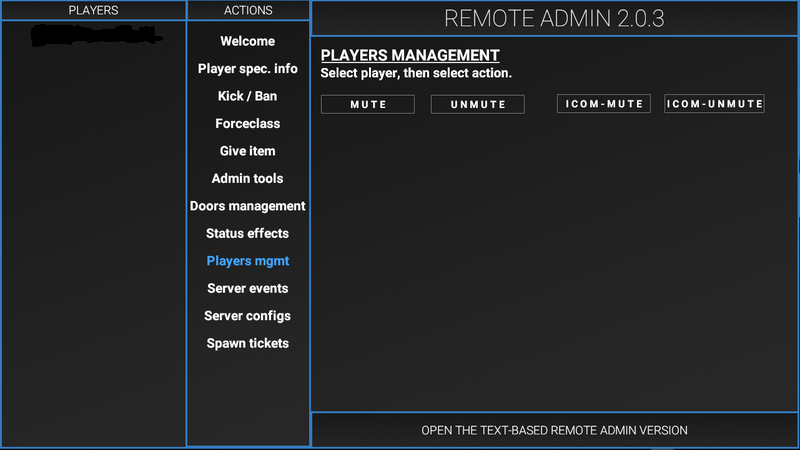
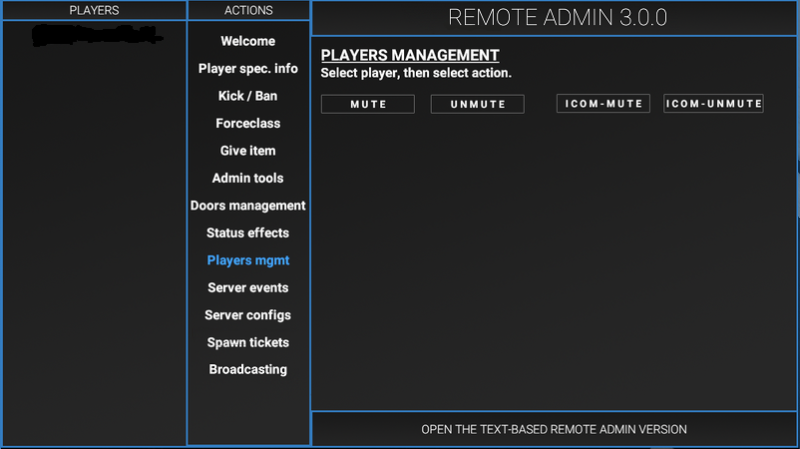
Add files via upload

diff --git a/scpsl.github.io/index.html b/scpsl.github.io/index.html
@@ -141,6 +141,19 @@
       <h2>Spawn Tickets</h2>
       <p>Позволяет пользователю увидеть текущее кол-во Жетонов Возрождения Мобильной Опергруппы и Повстанцев Хаоса. Кнопка "Refresh", находящаяся в правом верхнем углу, нужна для того, чтобы обновить кол-во Жетонов. <br>В меню будет отображаться 0 Жетонов для обеих команд, пока не будет нажата кнопка "Refresh". <br> Кнопки "+" и "-" могут использоваться для уменьшения и увеличения количества Жетонов.</p>
       <img src="assets/images/800px-Remote_Admin_Spawn_Tickets.png">
+      <h2>Broadcasting</h2>
+      <p>Позволяет отправлять текст на вверху экрана игроку/всем или же убрать объявление. Так же можно выбрать цвет, цветов 6.</p>
+      <ul>
+      <li><span class="kbd">Send To Player</span>
+      <ul><li>Отправляет текст игроку в вверху экрана.</li></ul></li><br>
+      <li><span class="kbd">Send To ALL</span>
+      <ul><li>Отправляет текст всем игрокам в вверху экрана.</li></ul></li><br>
+      <li><span class="kbd">Clear Input</span>
+      <ul><li>Обнуляет форму</li></ul></li><br>
+      <li><span class="kbd">Clear Broadcasts</span>
+      <ul><li>Отменяет и удаляет все объявления</li></ul></li></ul><br>
+      </ul>
+      <img src="assets/images/800px-Remote_Admin-Broadcasting.png">
       <h2>Текстовая Админ-Панель</h2>
       <p><b>Текстовую Админ-Панель</b> можно открыть нажатием на нижнюю часть Панели Remote Admin.<br> Команды в Текстовой Панели Администратора требует наличие определённых Прав у роли пользователя для того, чтобы выполнять их. Некоторые права могут дать только ограниченный доступ к командам.</p>
       <table class="wikitable">
@@ -928,7 +941,7 @@
       </div>
       <div id="content-1">
         <h1>Команда - Help</h1>
-        <h4>Возвращает все команды с их описаниями и псевдонимами или отборажает справку для sp...</h4>
+        <h3>Возвращает все команды с их описаниями и псевдонимами или отборажает справку для sp...</h3>
         <h2>Галерея -</h2>
         	<div class="gallery">
           <section class="gallery">
@@ -942,13 +955,13 @@
       </div>
       <div id="content-2">
         <h1>Команда - htag/stag</h1>
-        <h4>Скрыть/Показать ваш собственный префикс</h4>
+        <h3>Скрыть/Показать ваш собственный префикс</h3>
         <h2>Галерея -</h2>
         <iframe style="border-radius: 10px;" width="793" height="445" src="https://www.youtube.com/embed/39FSWBjKU0o" title="YouTube video player" frameborder="0" allow="accelerometer; autoplay; clipboard-write; encrypted-media; gyroscope; picture-in-picture" allowfullscreen alt="alt"></iframe>
       </div>
       <div id="content-3">
         <h1>Команда - bc/alert [Время (в сек)]</h1>
-        <h4>Отправляет всем текст наверху экрана.</h4>
+        <h3>Отправляет всем текст наверху экрана.</h3>
         <h2>Галерея -</h2>
           <div class="gallery-1">
           <section class="gallery">
@@ -965,7 +978,7 @@
       </div>
       <div id="content-4">
         <h1>Команда - @ [Текст]</h1>
-        <h4>Отправляет текст в админ чат наверху экрана</h4>
+        <h3>Отправляет текст в админ чат наверху экрана</h3>
         <h2>Галерея -</h2>
           <div class="gallery-1">
           <section class="gallery">
@@ -981,19 +994,53 @@
       <div id="content-5">
         <h1>Команда - ban [Стим айди 64/Имя игрока/IP игрока] [Время(h,d,y)] Причина Бана</h1>
         <h5 style="">Писать без скобочек!</h5>
-        <h4>Банит игрока на время на сервере</h4>
+        <h3>Банит игрока на время на сервере</h3>
       </div>
       <div id="content-6">
         <h1>Команда - oban [Стим айди 64/IP игрока] [Время(h,d,y)] Причина Бана</h1>
         <h5>Писать без скобочек!</h5>
-        <h4>Банит игрока на время на сервере</h4>
+        <h3>Банит игрока во оффлайне</h3>
       </div>
       <div id="content-7">
         <h1>Команда - speak/icom</h1>
-        <h4>С помощью этой команды можно говорить в интеркоме на расстоянии. Чтобы вкл/выкл надо прописать команду заново.</h4>
+        <h3>С помощью этой команды можно говорить в интеркоме на расстоянии. Чтобы вкл/выкл надо прописать команду заново.</h3>
         <iframe style="border-radius: 10px;" width="793" height="445" src="https://www.youtube.com/embed/aYCXLoiKKgs" title="YouTube video player" frameborder="0" allow="accelerometer; autoplay; clipboard-write; encrypted-media; gyroscope; picture-in-picture" allowfullscreen></iframe>
       </div>
-      <div class="menu-body">
+      <div id="content-8">
+        <h1>cassie (текст)</h1>
+        <h3>C.A.S.S.I.E. используемая этой командой, отделена от C.A.S.S.I.E. которая делает обычные объявления в игре(например прибытие подкрепления МОГ), эта команда будет воспроизводить всё доступное, включая другие слова "cassie".</h3>
+        <a style="text-decoration: none;" target="_blank" href="https://steamcommunity.com/sharedfiles/filedetails/?id=2220087668"><div class="dynamiclink_box noPopup webguide_item ugc">
+  <img class="dynamiclink_preview" src="https://steamuserimages-a.akamaihd.net/ugc/1622940601161532467/FBBC3D472320B360158B4ACDBDD6CEB496FEF62C/?imw=88&amp;imh=88&amp;ima=fit&amp;impolicy=Letterbox&amp;imcolor=%23000000&amp;letterbox=true">
+  <div class="dynamiclink_content">
+    <div class="dynamiclink_name">C.A.S.S.I.E. - Все команды&nbsp;</div>
+    <div><span class="dynamiclink_type">Руководство по SCP: Secret Laboratory</span></div></a>
+    <a style="text-decoration: none;" target="_blank" href="http://steamcommunity.com/profiles/76561198013366120"><div class="dynamiclink_author">Автор: <span class="dynamiclink_authorname">SCP-056</span></div></a>
+    <a style="text-decoration: none;" target="_blank" href="https://steamcommunity.com/sharedfiles/filedetails/?id=2220087668"><div class="dynamiclink_description">
+      [Обновлено для Parabellum] Руководство, описывающее команду "cassie", доступную через Text-based remote Admin version Ссылка на оригинал: https://steamcommunity.com/sharedfiles/filedetails/?id=1577299753   </div></a>
+  </div>
+</div>
+      </div>
+      <div id="content-9">
+        <h1>cassie_sl (текст)</h1>
+        <h3>C.A.S.S.I.E. используемая этой командой, отделена от C.A.S.S.I.E. которая делает обычные объявления в игре(например прибытие подкрепления МОГ), эта команда будет воспроизводить всё доступное, включая другие слова "cassie_sl".<br>
+        Команда cassie_sl отличается от cassie тем, что cassie_sl начинает сразу говорить фразу, без начального оповещения.</h3>
+        <a style="text-decoration: none;" target="_blank" href="https://steamcommunity.com/sharedfiles/filedetails/?id=2220087668"><div class="dynamiclink_box noPopup webguide_item ugc">
+  <img class="dynamiclink_preview" src="https://steamuserimages-a.akamaihd.net/ugc/1622940601161532467/FBBC3D472320B360158B4ACDBDD6CEB496FEF62C/?imw=88&amp;imh=88&amp;ima=fit&amp;impolicy=Letterbox&amp;imcolor=%23000000&amp;letterbox=true">
+  <div class="dynamiclink_content">
+    <div class="dynamiclink_name">C.A.S.S.I.E. - Все команды&nbsp;</div>
+    <div><span class="dynamiclink_type">Руководство по SCP: Secret Laboratory</span></div></a>
+    <a style="text-decoration: none;" target="_blank" href="http://steamcommunity.com/profiles/76561198013366120"><div class="dynamiclink_author">Автор: <span class="dynamiclink_authorname">SCP-056</span></div></a>
+    <a style="text-decoration: none;" target="_blank" href="https://steamcommunity.com/sharedfiles/filedetails/?id=2220087668"><div class="dynamiclink_description">
+      [Обновлено для Parabellum] Руководство, описывающее команду "cassie", доступную через Text-based remote Admin version Ссылка на оригинал: https://steamcommunity.com/sharedfiles/filedetails/?id=1577299753   </div></a>
+  </div>
+</div>
+      </div>
+        <div id="content-10">
+          <h1>kill [Айди/Имя игрока]</h1>
+          <h5>Писать без скобочек!</h5>
+        </div>
+        <div class="menu-body">
+        <h2 style="padding-bottom: 25px;">Административные</h2>
         <a href="#content-0"><h3>Панель <br> Администратора</h3></a>
         <a href="#content-1"><h3>Help</h3></a>
         <a href="#content-2"><h3>htag/stag</h3></a>
@@ -1001,12 +1048,14 @@
         <a href="#content-4"><h3>@</h3></a>
         <a href="#content-5"><h3>ban</h3></a>
         <a href="#content-6"><h3>oban</h3></a>
+        <a href="#content-10"><h3>kick</h3></a>
+        <h2></h2>
+        <h2 style="padding-bottom: 38px;">Ивентовые/Весёлые</h2>
         <a href="#content-7"><h3>speak/icom</h3></a>
-        <a href="#content-8"><h3>bc/alert</h3></a>
+        <a href="#content-8"><h3>cassie</h3></a>
+        <a href="#content-9"><h3>cassie_sl</h3></a>
+        <h2></h2>
       </div>
-    </div>
-
-  </div>
   <script src="https://code.jquery.com/jquery-3.5.1.js" integrity="sha256-QWo7LDvxbWT2tbbQ97B53yJnYU3WhH/C8ycbRAkjPDc="
     crossorigin="anonymous"></script>
   <script src="https://cdnjs.cloudflare.com/ajax/libs/magnific-popup.js/1.1.0/jquery.magnific-popup.js"></script>

diff --git a/scpsl.github.io/assets/css/style.css b/scpsl.github.io/assets/css/style.css
@@ -81,8 +81,6 @@ tr {
   max-width: 2900px;
   padding-left: 15px;
   padding-right: 15px;
-  border: 5px solid black;
-  border-radius: 16px;
 }
 
 .menu-content {
@@ -137,7 +135,6 @@ tr {
 .menu-content>#content-17:target~.menu-body>a[href="#content-17"] {
   background-color: #bbdefb;
   cursor: default;
-
 }
 .menu-content a{
   transition: 0.1s linear 0.1s;
@@ -151,7 +148,39 @@ tr {
   order: 1;
   flex-grow: 1;
 }
-
+.administration {
+  display: flex;
+  order: 0;
+  white-space: nowrap;
+  margin-bottom: 15px;
+  background-color: #fff;
+  border: 1px solid #e3f2fd;
+  box-shadow: 0 2px 4px 0 #e3f2fd;
+  flex-direction: column;
+}
+.administration>a {
+  display: inline-block;
+  text-decoration: none;
+  margin-bottom: 8px;
+  color: #1976d2;
+  padding: 6px 10px;
+  text-align: center;
+  color: black;
+}
+.administration>a:hover {
+  background-color: rgba(227, 242, 253, 0.3);
+}
+.menu-content>.administration>#content-0:target~.administration>a[href="#content-0"],
+.menu-content>.administration>#content-1:target~.administration>a[href="#content-1"],
+.menu-content>#content-2:target~.administration>a[href="#content-2"],
+.menu-content>#content-3:target~.administration>a[href="#content-3"],
+.menu-content>#content-4:target~.administration>a[href="#content-4"],
+.menu-content>#content-5:target~.administration>a[href="#content-5"],
+.menu-content>#content-6:target~.administration>a[href="#content-6"],
+.menu-content>#content-7:target~.administration>a[href="#content-7"] {
+  background: #bbdefb;
+  cursor: default;
+}
 @media (min-width: 576px) {
   .menu-content {
 	flex-direction: row;
@@ -203,4 +232,59 @@ tr {
 }
 .amongus a{
   text-decoration: none;
+}
+.dynamiclink_box {
+    position: relative;
+    font-family: Helvetica, Arial, sans-serif;
+    width: auto;
+    max-width: 712px;
+    background: rgba(87, 92, 104, 0.3);
+    border-radius: 6px;
+    padding: 8px;
+    margin: 10px 0px 10px 0px;
+    cursor: pointer;
+    overflow: hidden;
+}
+img.dynamiclink_preview {
+    float: left;
+    margin-right: 14px;
+    max-height: 88px;
+    max-width: 75%;
+}
+.dynamiclink_content {
+    font-family: "Motiva Sans", Sans-serif;
+    font-weight: 300;
+    color: rgb( 192, 192, 192 );
+    text-shadow: 0 0 16px rgb(0 0 0);
+    font-size: 13px;
+    line-height: normal;
+    text-align: left;
+    display: flow-root;
+}
+.dynamiclink_name {
+    font-size: 19px;
+    color: #aad8ec;
+    font-family: "Motiva Sans", Sans-serif;
+    font-weight: 300;
+    border-bottom: 1px dotted rgba( 109, 207, 246, .6 );
+    padding-bottom: 0px;
+    display: inline-block;
+    margin-bottom: 6px;
+}
+.dynamiclink_type {
+    color: #c6d4df;
+    font-size: 19px;
+}
+.dynamiclink_author {
+    font-size: 20px;
+    min-height: 16px;
+    color: #95a6b2;
+    margin-bottom: 4px;
+}
+.commentthread_entry_submitlink {
+    text-align: right;
+    padding-top: 5px;
+}
+.dynamiclink_description {
+  font-size: 17px;
 }
